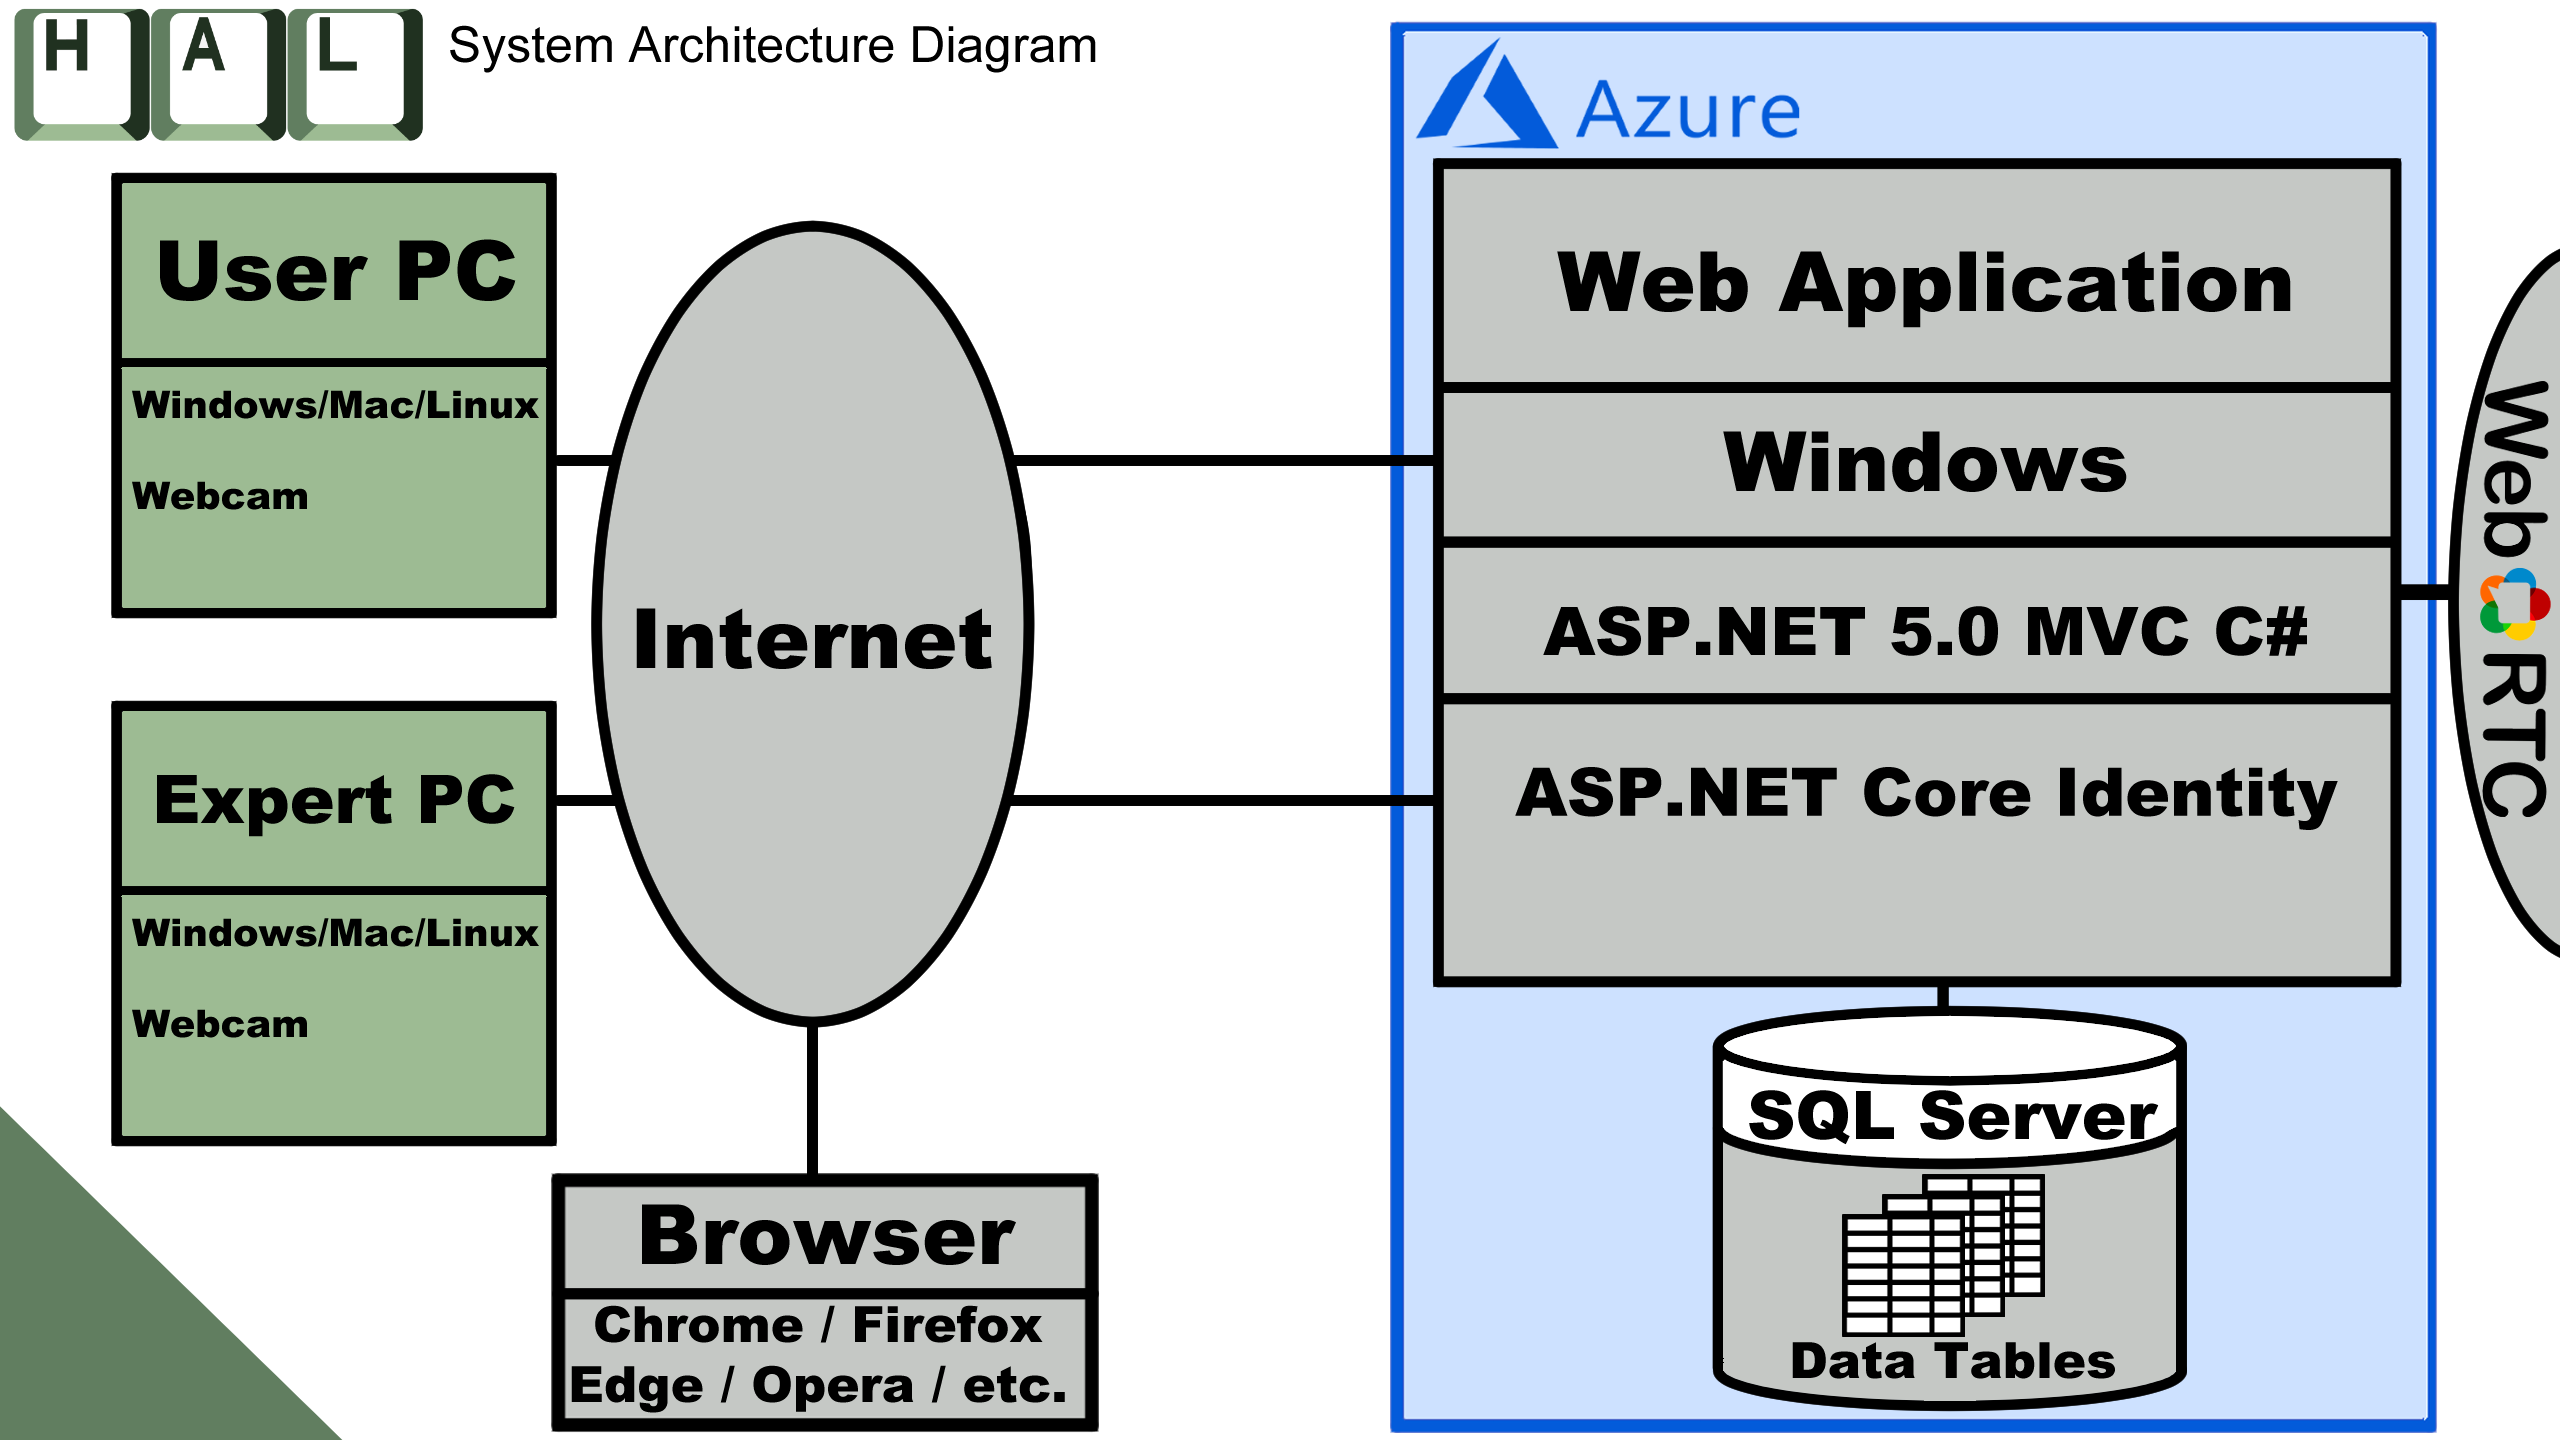
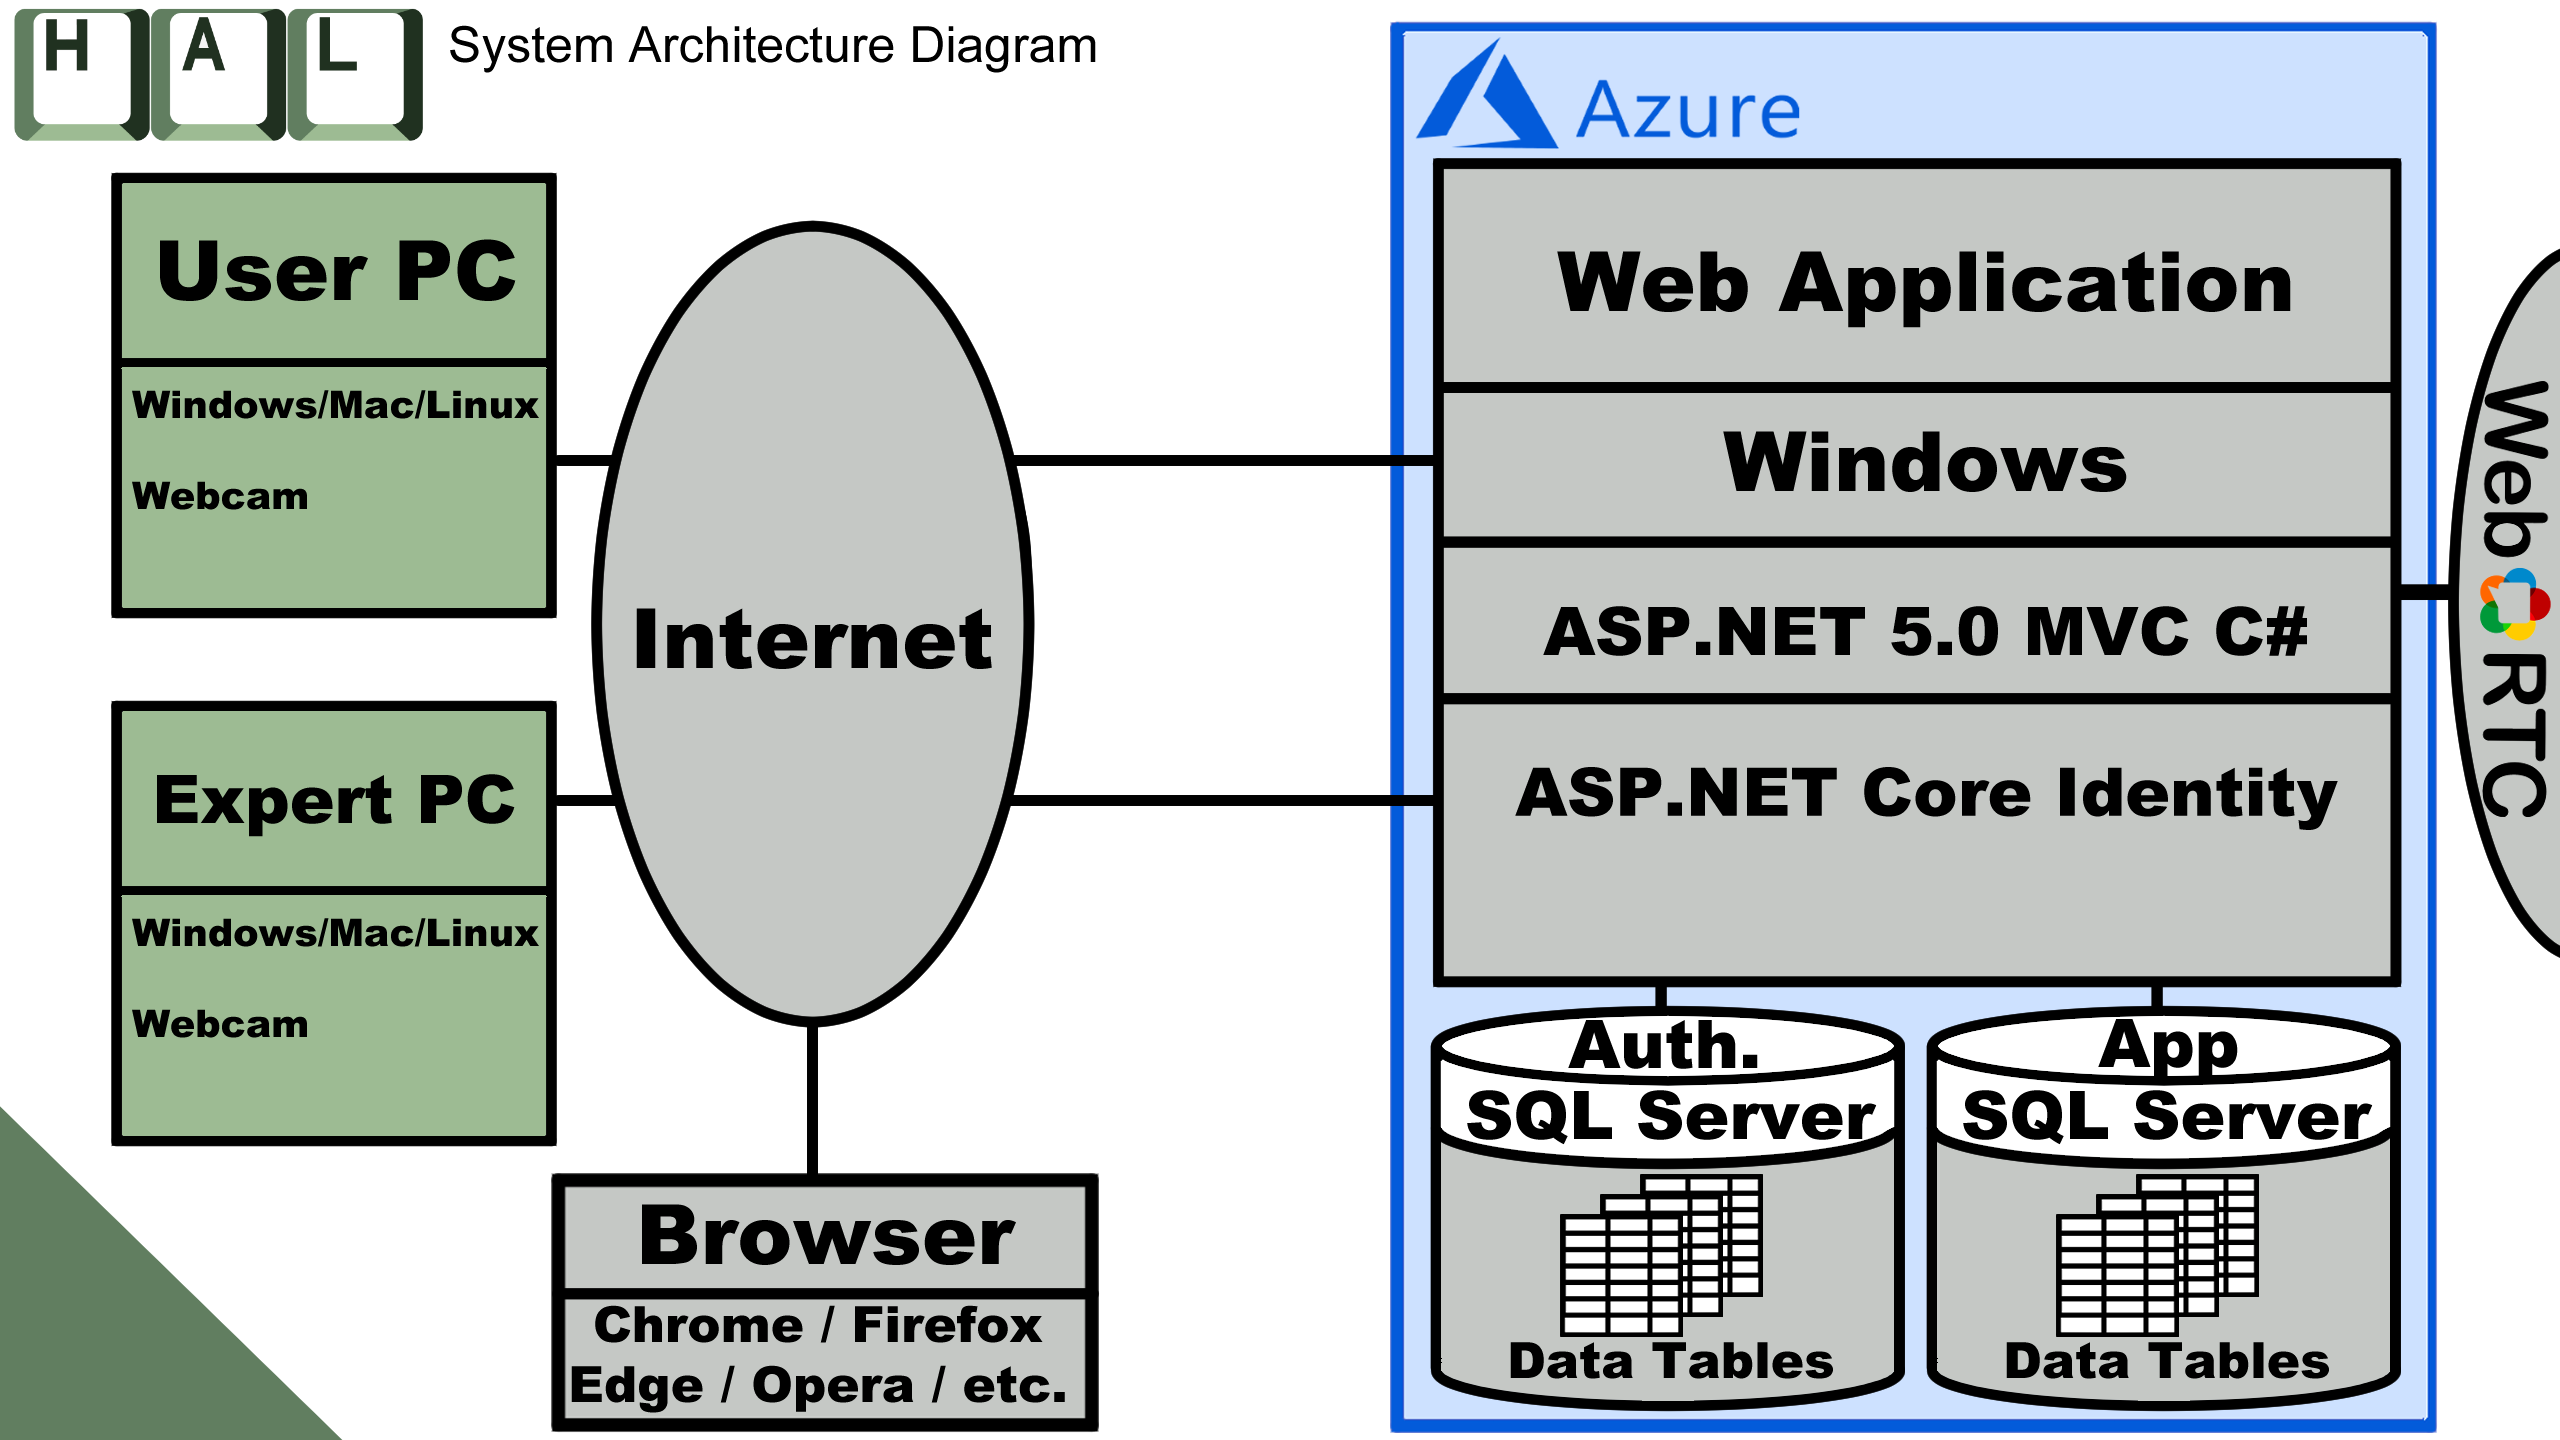
Update Architecture Diagram to account for auth server

Changed region(s): [[0.5312, 0.6875, 0.9375, 1.0]]

diff --git a/Milestones/Milestone-5/Team Project Inception Complete/Team Project Epics and User Stories.md b/Milestones/Milestone-5/Team Project Inception Complete/Team Project Epics and User Stories.md
@@ -1,9 +1,9 @@
-[E] As a visitor to the site I would like to see a fantastic and modern website with an intuitive visual design that guides me to site resources such as FAQ page, sign-in/register portals, and account pages.
+[E] As a visitor to the site I would like to see a fantastic and modern website with an intuitive visual design that guides me to site resources such as FAQ page, and account pages.
 
 	[U] As a visitor to the site I would like to see a fantastic and modern homepage that
 	introduces me to the site and the features currently available.
 
-        [T] Create starter ASP dot NET Core MVC Web Application with Individual User Accounts and no unit test project
+        [T] Create starter ASP dot NET Core MVC Web Application with Individual User Accounts using Identity and no unit test project
 		[T] Choose CSS library (Bootstrap 4, or ?) and use it for all pages
 		[T] Create nice bare homepage: write initial welcome content, customize navbar, hide links to login/register
         [T] Create SQL Server database on Azure and configure a web app to use it. Hide credentials.
@@ -22,37 +22,45 @@
         [T] Fill page with frequently asked questions and their answers
         [T] provide contact info (phone, email) for user support for unanswered questions
         [T] Provide a link to return to the home page
-
-    [U] As a visitor, I would like to be taken to a page to sign-up for an account
-        [T] Create links on the side of the navbar that defaults to sign-in/sign-up portal
-        [T] Create views for sign-in and sign-up portal (Not functional yet)
     
     [U] As a registered user, I would like to be able to view the details of my account on a dedicated page. 
         [T] Implement navbar link to direct to sign-in or sign-up portal if visitor is not logged in
         [T] Implement link to change to direct to user’s account page if user IS logged in
         [T] Create view for user’s account page where user info will be dynamically displayed
 
-[E] As a registered user, I need to be able to make an online request for IT help for my hardware, software, and networking issues, with an extended description of what my particular issue is.
-    
-    [U] As a user on the site, I need to be able to make a request for IT help for my issue.
-        [T] If user accounts implemented by this task, check for if user is logged in
-        [T] Create and display link if user logged in (if applicable) on main page to request
-        [T] Create table for requests to be stored
-        [T] Create view for requests to be made with forms and ability to submit to table
-        [T] Implement input validation to check forms when user attempts to submit
-		
-    [U] As a user, I need to use tags to describe my issue so I can be matched with an expert who specializes in the same tag.
-        [T] Create data table to store tag keywords and a bridge table to connect
-        [T] Display checkboxes on request page for user to click that are connected to request table element, to be compared to expert’s experience.  
-
 [E] As a visitor, I would like to be able to register for an account so that I may be able to receive and offer users help with IT issues. 
-        
-[E] As a registered user seeking help, I need an automated system to match me with the person best suited for helping solve my particular issue, based on my input when requesting help, the expert’s experience, and the expert’s rating. 
 
-[E] as a registered user, I would like to be able to edit or delete my account. 
+	[U] As someone with an IT issue, I would like to register as a client, so that I may get help with my IT issue.
+		[T] Copy SQL schema from an existing ASP.NET Identity database and integrate it into our UP,DOWN scripts
+		[T] Configure web app to use our db with Identity tables in it
+		[T] Create a client table
+		[T] Generate Razor Page code using Code Generator Tool
+		[T] Manually test register and login; user should easily be able to see that they are logged in
+		
+	[U] As someone with IT experience, I would like to register as a expert, so that I may help others with IT issue in my field.
+		[T] Copy SQL schema from an existing ASP.NET Identity database and integrate it into our UP,DOWN scripts
+		[T] Configure web app to use our db with Identity tables in it
+		[T] Create an expert table
+		[T] Generate Razor Page code using Code Generator Tool
+		[T] Create seperate login/registration views hyperlinked from the home page's navbar for experts to use
+		[T] Manually test register and login; user should easily be able to see that they are logged in
+		
+	[U] As a visitor looking into using the site, I want to be able to see and use professionally styled and intuitively designed login/registration pages, so I may 
+		[T] Reposition HTML elements on the page to be visually intuitive for all login and registration pages
+		[T] Change the color scheme for the different login and registration pages to match a consistent style 
+		
+[E] As a registered user, I need a tagging system to exist within the web application in order to help the matching system find a suitable match for my needs. 
 
-[E] As a registered expert, I need to be able to set tags on my account’s profile so that I can be accurately matched to a user’s IT issue.
+[E] as a registered user, I would like to be able to view or edit my account information on my account page or delete my account altogether in order to stay in control of my information. 
+
+[E] As a client, I need to be able to make an online request for IT help for my hardware, software, and networking issues, with an extended description of what my particular issue is.
+
+[E] As a client, I need an automated system to match me with the person best suited for helping solve my particular issue, based on my input when requesting help, the expert’s experience, and the expert’s rating so that my issue may be solved. 
+
+[E] As an Expert, I need an online waiting room to await being connected to a client who requires my assistance, with the option to view and decline a request if I feel that I cannot help the client. 
 
 [E] As a registered user, I would like to have multiple methods of communicating with the person I have been matched with, preferably text, video call, and screenshare. 
 
-[E] As a user who received help, I would like to leave feedback on my matched expert’s ability to help me in the form of a rating that I can later edit if I change my mind. 
+[E] As a client who received help, I would like to leave feedback on my matched expert’s ability to help me in the form of a rating that I can later edit if I change my mind. 
+
+[E] As a registered user, I need to see a list of past meetings I have participated in, in order to follow up with the person I met.

diff --git a/Milestones/Milestone-5/Team Project Inception Complete/Updated Team Project Needs and Features.md b/Milestones/Milestone-5/Team Project Inception Complete/Updated Team Project Needs and Features.md
@@ -13,7 +13,7 @@ Needs and the Features that Satisfy Them
 	* Separate log-in portals for clients and IT help
 	* Data tables to keep track of user accounts and related information
 	* Profile page for Experts to manage tags that they have expertise in
-	* Ability to edit and delete accounts that you own, or are admin of
+	* Ability to view, edit and delete accounts that you own, or are admin of
 	
 3. A service that allows clients to make IT help requests
 	* Page(s) for clients to submit a request with a title, a description, and tags
@@ -24,7 +24,7 @@ Needs and the Features that Satisfy Them
 	* View pages that list of potential matching expert's available hours if no sufficient online help available
 	* Integrated database that connect pertinent data tables together
 	* A hidden matching score calculated by comparing the tags and qualities of a clients's IT issue and an expert's information and profile
-	* Prompt for expert upon potential match with client's tags and description with ability to decline match and pass client issue onto next match if current expert cannot address the client's request
+	* Prompt for an expert upon matching with potential client's tags and description with the ability to decline the match and pass the client issue onto next match if current expert cannot address the client's request
 	* Queue system to put clients on hold if matching experts are online, but busy with other clients
 	
 5. The ability to meet and communicate between clients and experts
